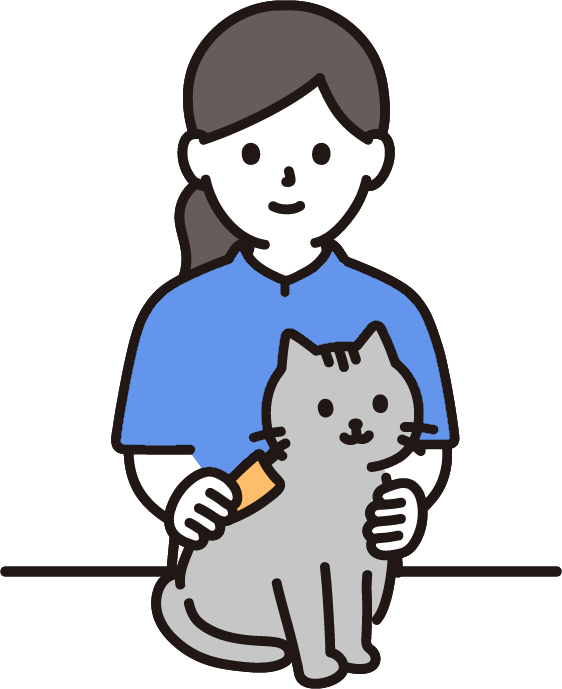
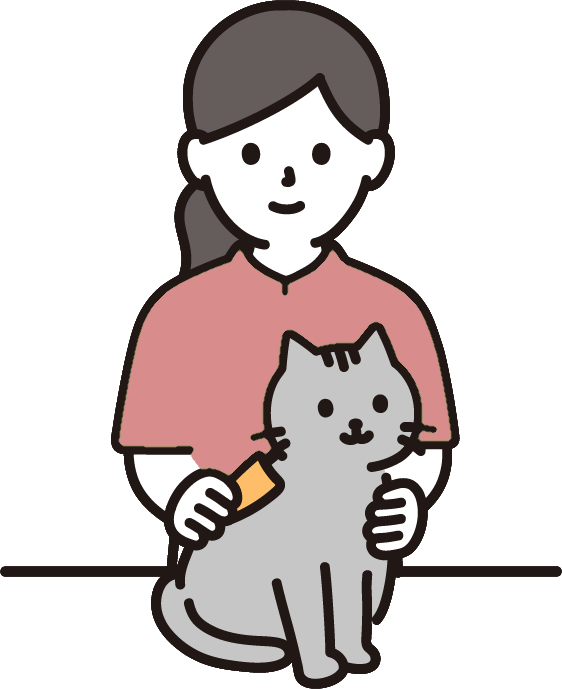
color

Changed region(s): [[0.2117, 0.3657, 0.8167, 0.701], [0.9982, 0.8229, 1.0, 0.8534]]

diff --git a/index.html b/index.html
@@ -29,11 +29,11 @@
 
     <!-- 关键CSS内联，确保页面快速渲染 -->
     <style>
-:root{--primary:#6495ED;--primary-light:#6495ED;--secondary:#E6F2FF;--dark:#333;--darker:#1a1a1a;--light:#fff;--gray:#e0e0e0;--gray-dark:#6b6b6b;--shadow:0 2px 10px rgba(0,0,0,0.05);--shadow-light:0 1px 3px rgba(0,0,0,0.03);--border:#e0e0e0}*{margin:0;padding:0;box-sizing:border-box;font-family:'M PLUS Rounded 1c','Kosugi Maru','Noto Sans JP',sans-serif;-webkit-font-smoothing:antialiased}body{background-color:var(--light);color:var(--dark);line-height:1.7;font-weight:400;font-size:15px}h1,h2,h3,h4,h5,h6{font-family:'M PLUS Rounded 1c','Kosugi Maru','Noto Serif JP',serif;font-weight:500;line-height:1.3}p{margin-bottom:1em}header{background-color:var(--light);padding:15px 0;position:fixed;width:100%;top:0;z-index:1000;border-bottom:1px solid rgba(0,0,0,0.05)}.container{max-width:1240px;margin:0 auto;padding:0 20px}.header-top{display:flex;justify-content:space-between;align-items:center}.logo{display:flex;align-items:center}.logo h1{font-size:22px;color:var(--dark);display:flex;align-items:center;letter-spacing:0.5px}.logo img{height:36px;margin-right:12px;width:auto}.hero{background-color:#f8f6f2;padding:80px 0 60px;margin-top:0;text-align:center}.hero-content{max-width:700px;margin:0 auto}.launch-date{display:inline-block;color:var(--primary);font-size:16px;font-weight:500;margin-bottom:25px;letter-spacing:0.5px;background-color:transparent;padding:0;border-bottom:2px solid var(--primary);padding-bottom:4px}.hero h2{font-size:40px;margin-bottom:25px;line-height:1.4;color:var(--darker)}.hero p{font-size:18px;margin-bottom:30px;color:var(--gray-dark);line-height:1.8}.hero-message{max-width:700px;margin:0 auto 30px}.feature-list{list-style:none;padding:0;margin:0;text-align:left;display:inline-block;margin:0 auto}.feature-item{margin-bottom:12px;display:flex;align-items:flex-start;text-align:left}.feature-item:last-child{margin-bottom:0}.check-icon{color:#6495ED;font-size:18px;margin-right:15px;display:inline-flex;align-items:center;justify-content:center;font-weight:500;min-width:20px}.feature-text{font-size:18px;color:var(--gray-dark);line-height:1.4}.cta-button{display:inline-block;padding:12px 30px;background-color:var(--primary);color:white;text-decoration:none;font-weight:500;font-size:16px;transition:background-color 0.3s ease;margin-top:20px}.cta-button:hover{background-color:var(--primary-light)}
+:root{--primary:#D98C8C;--primary-light:#D98C8C;--secondary:#E6F2FF;--dark:#333;--darker:#1a1a1a;--light:#fff;--gray:#e0e0e0;--gray-dark:#6b6b6b;--shadow:0 2px 10px rgba(0,0,0,0.05);--shadow-light:0 1px 3px rgba(0,0,0,0.03);--border:#e0e0e0}*{margin:0;padding:0;box-sizing:border-box;font-family:'M PLUS Rounded 1c','Kosugi Maru','Noto Sans JP',sans-serif;-webkit-font-smoothing:antialiased}body{background-color:var(--light);color:var(--dark);line-height:1.7;font-weight:400;font-size:15px}h1,h2,h3,h4,h5,h6{font-family:'M PLUS Rounded 1c','Kosugi Maru','Noto Serif JP',serif;font-weight:500;line-height:1.3}p{margin-bottom:1em}header{background-color:var(--light);padding:15px 0;position:fixed;width:100%;top:0;z-index:1000;border-bottom:1px solid rgba(0,0,0,0.05)}.container{max-width:1240px;margin:0 auto;padding:0 20px}.header-top{display:flex;justify-content:space-between;align-items:center}.logo{display:flex;align-items:center}.logo h1{font-size:22px;color:var(--dark);display:flex;align-items:center;letter-spacing:0.5px}.logo img{height:36px;margin-right:12px;width:auto}.hero{background-color:#f8f6f2;padding:80px 0 60px;margin-top:0;text-align:center}.hero-content{max-width:700px;margin:0 auto}.launch-date{display:inline-block;color:var(--primary);font-size:16px;font-weight:500;margin-bottom:25px;letter-spacing:0.5px;background-color:transparent;padding:0;border-bottom:2px solid var(--primary);padding-bottom:4px}.hero h2{font-size:40px;margin-bottom:25px;line-height:1.4;color:var(--darker)}.hero p{font-size:18px;margin-bottom:30px;color:var(--gray-dark);line-height:1.8}.hero-message{max-width:700px;margin:0 auto 30px}.feature-list{list-style:none;padding:0;margin:0;text-align:left;display:inline-block;margin:0 auto}.feature-item{margin-bottom:12px;display:flex;align-items:flex-start;text-align:left}.feature-item:last-child{margin-bottom:0}.check-icon{color:#D98C8C;font-size:18px;margin-right:15px;display:inline-flex;align-items:center;justify-content:center;font-weight:500;min-width:20px}.feature-text{font-size:18px;color:var(--gray-dark);line-height:1.4}.cta-button{display:inline-block;padding:12px 30px;background-color:var(--primary);color:white;text-decoration:none;font-weight:500;font-size:16px;transition:background-color 0.3s ease;margin-top:20px}.cta-button:hover{background-color:var(--primary-light)}
 
 /* 修改后的Campaign Banner样式 */
 .campaign-banner {
-  background-color: #6495ED;
+  background-color: #D98C8C;
   color: white;
   padding: 30px 0;
   width: 100%;
@@ -44,6 +44,8 @@
   align-items: center;
   gap: 15px;
 }
+
+
 
 .campaign-info {
   display: flex;
@@ -87,7 +89,7 @@
     </style>
     
     <!-- 非关键CSS延迟加载 -->
-    <link rel="stylesheet" href="assets/css/main.css" media="print" onload="this.media='all'">
+    <link rel="stylesheet" href="assets/css/style.css" media="print" onload="this.media='all'">
     
     <!-- 结构化数据 -->
     <script type="application/ld+json">
@@ -122,10 +124,18 @@
                         ULALA | ペットフレンドリー物件専門情報サイト
                     </h1>
                 </div>
+                <nav class="main-nav">
+                    <ul>
+                        <li><a href="index.html">ホーム</a></li>
+                        <li><a href="pages/search.html">お部屋案内</a></li>
+                        <li><a href="pages/notes/index.html">うららかノート</a></li>
+                        <li><a href="pages/about.html">ULALAについて</a></li>
+                        <li><a href="pages/contact.html">お問い合わせ</a></li>
+                    </ul>
+                </nav>
             </div>
         </div>
-    </header>
-      
+    </header>      
     <!-- 添加Campaign Banner到hero section之外，作为独立横幅 -->
     <div class="campaign-banner">
       <div class="campaign-info">
@@ -303,7 +313,7 @@
         <div class="container">
             <div class="newsletter-content">
                 <h2>特典付き先行登録受付中</h2>
-                <p>メールアドレスをご登録いただくと、<span style="color: #6495ED; font-weight: 500;">仲介手数料最大無料</span>の特典が受けられます。また、新着物件情報をいち早くお届けし、優先的にご案内します。</p>
+                <p>メールアドレスをご登録いただくと、<span style="color: #D98C8C; font-weight: 500;">仲介手数料最大無料</span>の特典が受けられます。また、新着物件情報をいち早くお届けし、優先的にご案内します。</p>
                 
                 <form class="newsletter-form" id="subscription-form" name="newsletter-subscription" method="POST" data-netlify="true">
                     <input type="hidden" name="form-name" value="newsletter-subscription">

diff --git a/assets/css/style.css b/assets/css/style.css
@@ -1,6 +1,6 @@
 /* 基础样式设置 */
 :root {
-    --primary: #6495ED; /* 矢车菊蓝 */
+    --primary: #D98C8C; /* 矢车菊蓝 */
     --primary-light: #E6F2FF; /* 浅蓝色背景 */
     --secondary: #FFA000; /* 暖橙色，用于强调 */
     --dark: #333;
